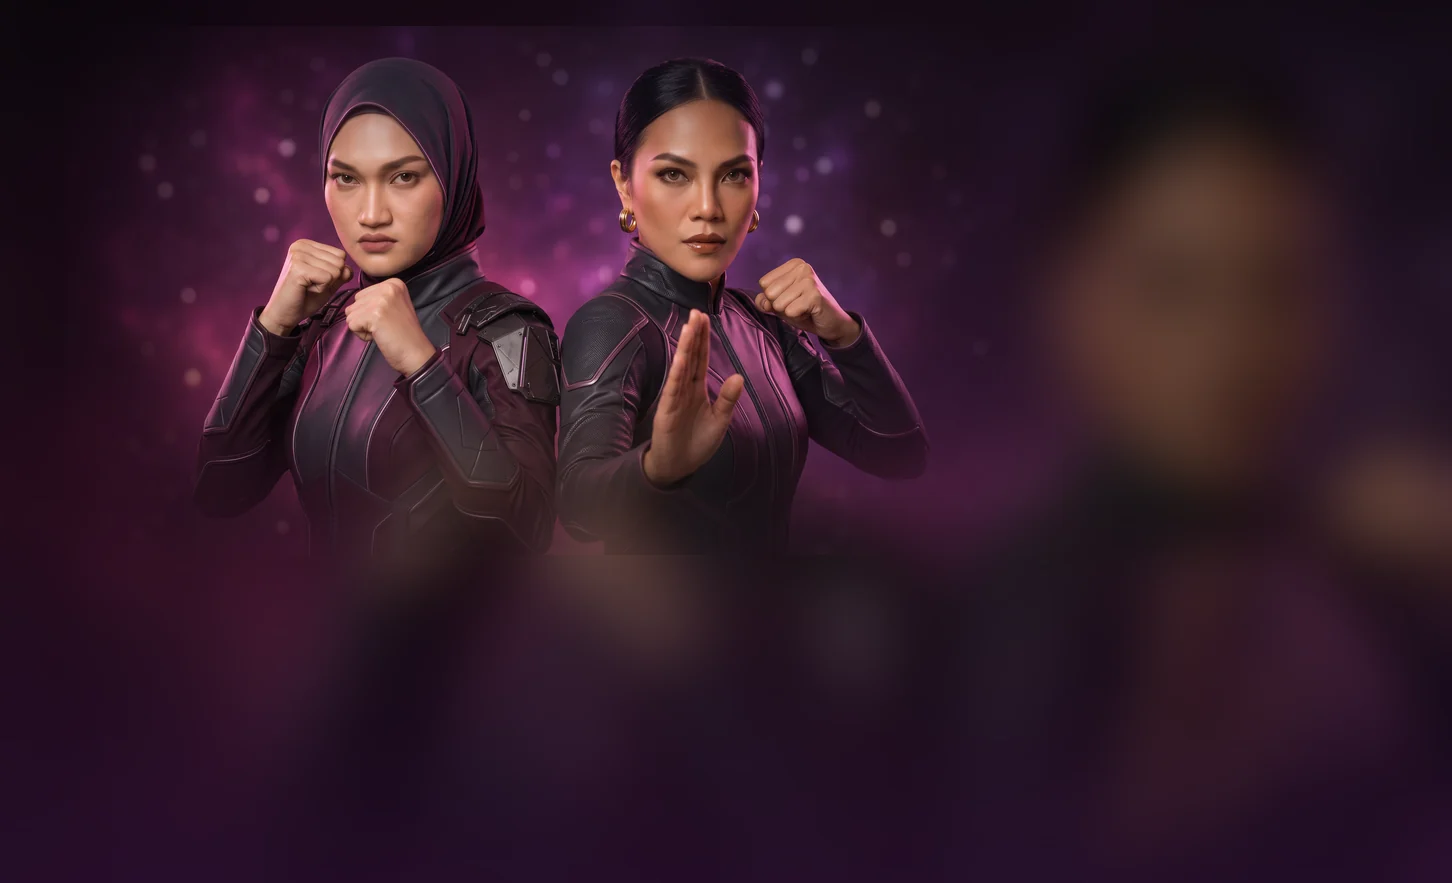
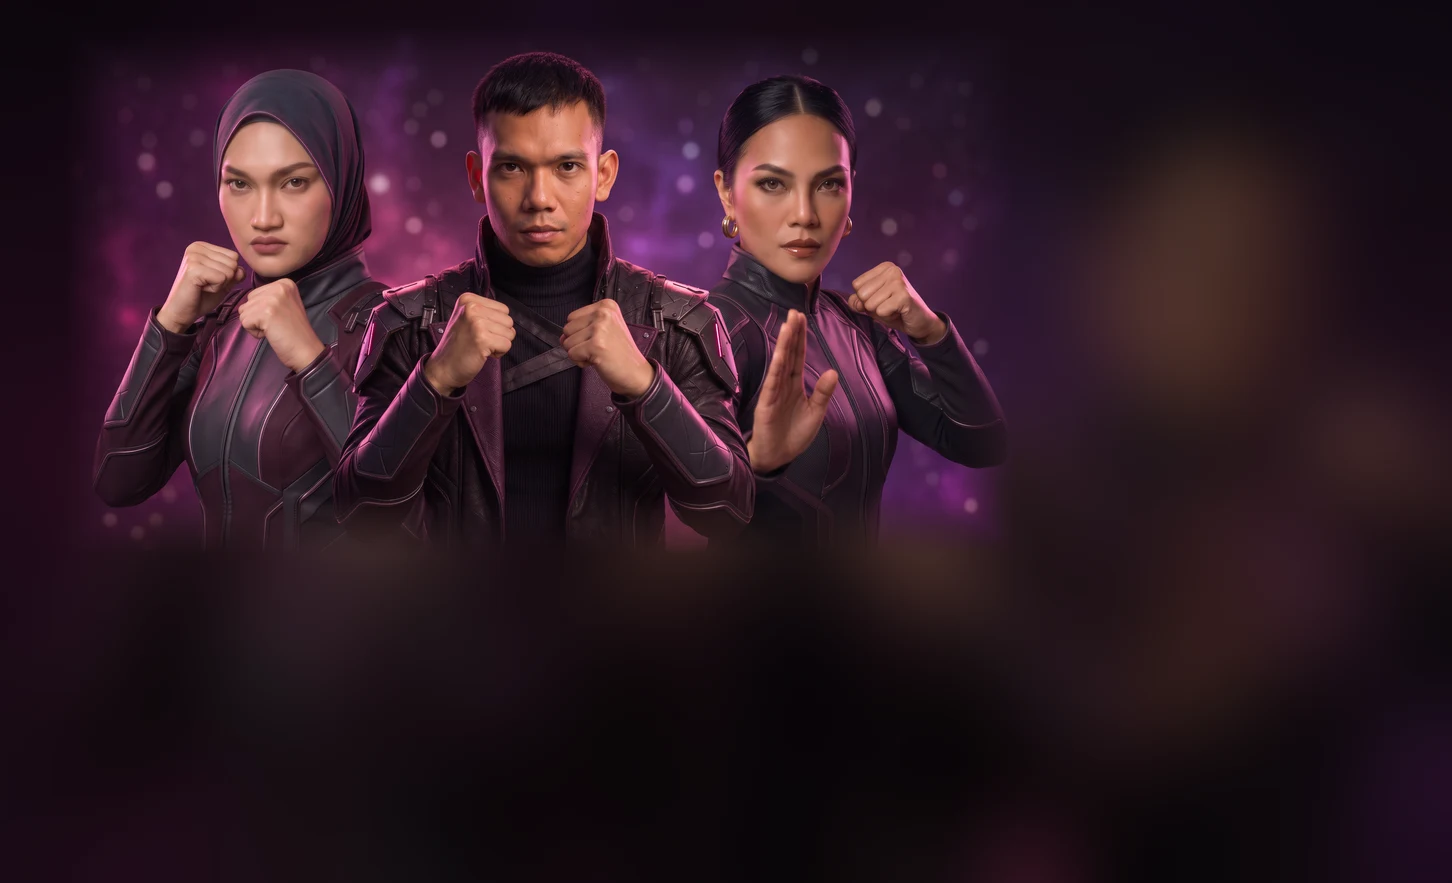
Card 19-20 (Numen): new thumbnail and big art
Claude-Session: https://claude.ai/code/session_01QpfYAiXFaQHcA12hC36bw4

diff --git a/index.html b/index.html
@@ -1417,7 +1417,7 @@
       body:`<section class="backers"><article class="backer"><div class="backer-media"><img class="backer-photo" src="network-sign-1.webp?v=2" alt="Deddy Corbuzier signing with FCU" loading="lazy"><img class="backer-logo" src="investor-logos/fcu.webp" alt="" loading="lazy"></div><div class="backer-info"><h3>DEDDY CORBUZIER</h3><span class="backer-role">Investor &amp; Strategic Partner</span><div class="backer-brand"><b>Flux Creative Universe</b></div><p>Deddy Corbuzier, widely known as the “Father of YouTube Indonesia” and a leading figure in the country’s digital media landscape, joined Flux Creative Universe as an investor and strategic partner on May 9, 2023. His involvement strengthens our vision for Indonesia’s next generation of creative businesses.</p><span class="backer-go" aria-hidden="true">→</span></div></article><article class="backer"><div class="backer-media"><img class="backer-photo" src="network-sign-2.webp?v=2" alt="Andrew Susanto signing with FCU" loading="lazy"><img class="backer-logo" src="investor-logos/bersinema.webp" style="height:3.4rem;max-width:9rem" alt="" loading="lazy"></div><div class="backer-info"><h3>ANDREW SUSANTO</h3><span class="backer-role">Investor</span><div class="backer-brand"><b>Bersinema</b></div><p>Andrew Susanto, an investor and prominent business figure associated with HW Group, invested in Bersinema, Flux Creative Universe’s pioneering TikTok vertical drama production house. Built on the growing potential of short-form entertainment, Bersinema consistently generates over 300 million views per month.</p><span class="backer-go" aria-hidden="true">→</span></div></article><article class="backer"><div class="backer-media"><img class="backer-photo" src="network-sign-3.webp?v=2" alt="Ivan Tanjaya signing with FCU" loading="lazy"><img class="backer-logo" src="investor-logos/holyflux.webp" alt="" loading="lazy"></div><div class="backer-info"><h3>IVAN TANJAYA</h3><span class="backer-role">Investor</span><div class="backer-brand"><b>HolyFlux</b></div><p>Building on Ivan Tanjaya’s experience as co-founder of HW Group, Flux Creative Universe partnered with him to establish HolyFlux Media on November 13, 2024. The venture brings together 7 media brands, collectively generating hundreds of millions of impressions per month.</p><span class="backer-go" aria-hidden="true">→</span></div></article><article class="backer"><div class="backer-media"><img class="backer-photo" src="network-sign-4.webp?v=2" alt="Rudy Salim signing with FCU" loading="lazy"><img class="backer-logo" src="investor-logos/privilege.webp" style="height:1.35rem;max-width:6.5rem" alt="" loading="lazy"></div><div class="backer-info"><h3>RUDY SALIM</h3><span class="backer-role">Investor &amp; Co-Founder</span><div class="backer-brand"><b>Privilege</b></div><p>Known as one of Indonesia’s “Crazy Rich” entrepreneurs, Rudy Salim built his reputation in the luxury automotive industry. He later co-founded Privilege with Flux Creative Universe, driven by the belief that every brand has the privilege to go viral.</p><span class="backer-go" aria-hidden="true">→</span></div></article><article class="backer"><div class="backer-media"><img class="backer-photo" src="network-sign-5.webp?v=2" alt="Grace Tahir signing with FCU" loading="lazy"></div><div class="backer-info"><h3>GRACE TAHIR</h3><span class="backer-role">Investor &amp; Co-Founder</span><div class="backer-brand"><b>Peak Digital Capital</b></div><p>Grace Tahir co-founded Peak Digital Capital with Yohanes Auri on March 2, 2023, as a joint venture between Everest Media and Flux Creative Universe. Through investments in multiple homeless media platforms, Peak is building a digital media network with a combined audience of millions of followers.</p><span class="backer-go" aria-hidden="true">→</span></div></article></section>`
     },
     'PARTNER HEROES':{eye:'04 / Creative Partners',heroes:true,lead:'',body:`<div class="ph-art" role="img" aria-label="Yohanes Auri"></div>
-        <div class="ph-deck"><button class="ph-dnav prev" data-dir="-1" aria-label="Sebelumnya">‹</button><div class="hc-grid"><button class="hc hc-gone" data-hero="0" style="--d:0" hidden><span class="hc-n">01</span><img src="heroes/p01.webp?v=3" alt="" loading="lazy"><span class="hc-name">YOHANES AURI</span><span class="hc-brand">FCU</span></button><button class="hc is-on" data-hero="1" style="--d:1"><span class="hc-n">02</span><img src="heroes/p02.webp?v=2" alt="" loading="lazy"><span class="hc-name">BEN EDGAR</span><span class="hc-brand">Adsventure</span></button><button class="hc" data-hero="2" style="--d:2"><span class="hc-n">03</span><img src="heroes/p03.webp?v=2" alt="" loading="lazy"><span class="hc-name" style="white-space:normal;text-align:center;line-height:1.15">ALDHO MULIA TRIJAYA</span><span class="hc-brand">Bersinema</span></button><button class="hc" data-hero="3" style="--d:3"><span class="hc-n">04</span><img src="heroes/p04.webp?v=2" alt="" loading="lazy"><span class="hc-name">NOBITADIT</span><span class="hc-brand">NEEDED</span></button><button class="hc hc-duo" data-hero="4" style="--d:4"><span class="hc-n">05–06</span><img src="heroes/p05.webp?v=2" alt="" loading="lazy"><span class="hc-name">WILLIAM &amp; NABEEL</span><span class="hc-brand">Ngiklan Creative</span></button><button class="hc hc-gone" data-hero="5" style="--d:5" hidden><span class="hc-n">06</span><img src="heroes/p06.webp" alt="" loading="lazy"><span class="hc-name">RUDY SALIM</span><span class="hc-brand">Privilege</span></button><button class="hc" data-hero="6" style="--d:6"><span class="hc-n">07</span><img src="heroes/p07.webp?v=3" alt="" loading="lazy"><span class="hc-name">MARVELLINO</span><span class="hc-brand">UNEXPLND</span></button><button class="hc" data-hero="7" style="--d:7"><span class="hc-n">08</span><img src="heroes/p08.webp?v=3" alt="" loading="lazy"><span class="hc-name">DANDI WENAS</span><span class="hc-brand">WAH GENZ</span></button><button class="hc hc-duo" data-hero="8" style="--d:8"><span class="hc-n">09–10</span><img src="heroes/p09.webp?v=3" alt="" loading="lazy"><span class="hc-name">CHENDWI &amp; WULAN</span><span class="hc-brand">SS Media</span></button><button class="hc hc-gone" data-hero="9" style="--d:9" hidden><span class="hc-n">10</span><img src="heroes/p10.webp?v=2" alt="" loading="lazy"><span class="hc-name">ALDI</span><span class="hc-brand">KA</span></button><button class="hc hc-duo" data-hero="10" style="--d:0"><span class="hc-n">11–12</span><img src="heroes/p11.webp?v=3" alt="" loading="lazy"><span class="hc-name">KARINA &amp; SYELINDA</span><span class="hc-brand">NÜMEN</span></button><button class="hc hc-gone" data-hero="11" style="--d:1" hidden><span class="hc-n">12</span><img src="heroes/p12.webp?v=2" alt="" loading="lazy"><span class="hc-name">BAYU</span><span class="hc-brand">Studio Lama</span></button><button class="hc" data-hero="12" style="--d:2"><span class="hc-n">13</span><img src="heroes/p13.webp?v=2" alt="" loading="lazy"><span class="hc-name" style="white-space:normal;text-align:center;line-height:1.15">GERY TIMOTHY GUNAWAN</span><span class="hc-brand">Demen Film</span></button><button class="hc" data-hero="13" style="--d:3"><span class="hc-n">14</span><img src="heroes/p14.webp?v=3" alt="" loading="lazy"><span class="hc-name">CARRIN FU</span><span class="hc-brand">Pikology</span></button><button class="hc hc-duo" data-hero="14" style="--d:4"><span class="hc-n">15–16</span><img src="heroes/p15.webp?v=3" alt="" loading="lazy"><span class="hc-name">LOUISE &amp; RARA</span><span class="hc-brand">LR Creative Lab</span></button><button class="hc hc-gone" data-hero="15" style="--d:5" hidden><span class="hc-n">16</span><img src="heroes/p16.webp?v=2" alt="" loading="lazy"><span class="hc-name">TIARA</span><span class="hc-brand">Playverse</span></button><button class="hc" data-hero="16" style="--d:6"><span class="hc-n">17</span><img src="heroes/p17.webp?v=3" alt="" loading="lazy"><span class="hc-name">LUQMAL CHAKIM</span><span class="hc-brand">HolyFlux Media</span></button><button class="hc" data-hero="17" style="--d:7"><span class="hc-n">18</span><img src="heroes/p18.webp?v=3" alt="" loading="lazy"><span class="hc-name">CHIA NURSANTIO</span><span class="hc-brand">PRAVIA</span></button><button class="hc hc-duo" data-hero="18" style="--d:8"><span class="hc-n">19–20</span><img src="heroes/p19.webp?v=3" alt="" loading="lazy"><span class="hc-name">LUCKY &amp; ACUY</span><span class="hc-brand">The Curious</span></button><button class="hc hc-gone" data-hero="19" style="--d:9" hidden><span class="hc-n">20</span><img src="heroes/p20.webp" alt="" loading="lazy"><span class="hc-name">DIMAS</span><span class="hc-brand">Growth Hub</span></button><button class="hc" data-hero="20" style="--d:0"><span class="hc-n">21</span><img src="heroes/p21.webp?v=1" alt="" loading="lazy"><span class="hc-name">PARTNER HERO</span><span class="hc-brand">FCU</span></button><button class="hc" data-hero="21" style="--d:1"><span class="hc-n">22</span><img src="heroes/p22.webp?v=1" alt="" loading="lazy"><span class="hc-name">PARTNER HERO</span><span class="hc-brand">FCU</span></button><button class="hc" data-hero="22" style="--d:2"><span class="hc-n">23</span><img src="heroes/p23.webp?v=1" alt="" loading="lazy"><span class="hc-name">RILLY YUNIARDA</span><span class="hc-brand">Impressive</span></button><button class="hc" data-hero="23" style="--d:3"><span class="hc-n">24</span><img src="heroes/p24.webp?v=1" alt="" loading="lazy"><span class="hc-name">KIKI TOBING</span><span class="hc-brand">Oxygen</span></button><button class="hc" data-hero="24" style="--d:4"><span class="hc-n">25</span><img src="heroes/p25.webp?v=1" alt="" loading="lazy"><span class="hc-name">JAILANI</span><span class="hc-brand">Flux Design</span></button><button class="hc hc-duo" data-hero="25" style="--d:5"><span class="hc-n">25–26</span><img src="heroes/p26.webp?v=1" alt="" loading="lazy"><span class="hc-name">ZUFAR ASYRAF</span><span class="hc-brand">GetCore</span></button><button class="hc hc-soon hc-gone" data-hero="26" style="--d:6" tabindex="-1" aria-label="Coming soon" hidden><span class="hc-n">27</span><span class="hc-name">COMING SOON</span><span class="hc-brand">Partner Hero</span></button><button class="hc hc-bot" data-hero="27" style="--d:7"><span class="hc-n">27</span><img src="heroes/p28.webp?v=3" alt="" loading="lazy"><span class="hc-name">PARTNER HERO</span><span class="hc-brand">FCU</span></button><button class="hc hc-bot" data-hero="28" style="--d:8"><span class="hc-n">28</span><img src="heroes/p29.webp?v=1" alt="" loading="lazy"><span class="hc-name">PARTNER HERO</span><span class="hc-brand">FCU</span></button></div><button class="ph-dnav next" data-dir="1" aria-label="Berikutnya">›</button></div>
+        <div class="ph-deck"><button class="ph-dnav prev" data-dir="-1" aria-label="Sebelumnya">‹</button><div class="hc-grid"><button class="hc hc-gone" data-hero="0" style="--d:0" hidden><span class="hc-n">01</span><img src="heroes/p01.webp?v=3" alt="" loading="lazy"><span class="hc-name">YOHANES AURI</span><span class="hc-brand">FCU</span></button><button class="hc is-on" data-hero="1" style="--d:1"><span class="hc-n">02</span><img src="heroes/p02.webp?v=2" alt="" loading="lazy"><span class="hc-name">BEN EDGAR</span><span class="hc-brand">Adsventure</span></button><button class="hc" data-hero="2" style="--d:2"><span class="hc-n">03</span><img src="heroes/p03.webp?v=2" alt="" loading="lazy"><span class="hc-name" style="white-space:normal;text-align:center;line-height:1.15">ALDHO MULIA TRIJAYA</span><span class="hc-brand">Bersinema</span></button><button class="hc" data-hero="3" style="--d:3"><span class="hc-n">04</span><img src="heroes/p04.webp?v=2" alt="" loading="lazy"><span class="hc-name">NOBITADIT</span><span class="hc-brand">NEEDED</span></button><button class="hc hc-duo" data-hero="4" style="--d:4"><span class="hc-n">05–06</span><img src="heroes/p05.webp?v=2" alt="" loading="lazy"><span class="hc-name">WILLIAM &amp; NABEEL</span><span class="hc-brand">Ngiklan Creative</span></button><button class="hc hc-gone" data-hero="5" style="--d:5" hidden><span class="hc-n">06</span><img src="heroes/p06.webp" alt="" loading="lazy"><span class="hc-name">RUDY SALIM</span><span class="hc-brand">Privilege</span></button><button class="hc" data-hero="6" style="--d:6"><span class="hc-n">07</span><img src="heroes/p07.webp?v=3" alt="" loading="lazy"><span class="hc-name">MARVELLINO</span><span class="hc-brand">UNEXPLND</span></button><button class="hc" data-hero="7" style="--d:7"><span class="hc-n">08</span><img src="heroes/p08.webp?v=3" alt="" loading="lazy"><span class="hc-name">DANDI WENAS</span><span class="hc-brand">WAH GENZ</span></button><button class="hc hc-duo" data-hero="8" style="--d:8"><span class="hc-n">09–10</span><img src="heroes/p09.webp?v=3" alt="" loading="lazy"><span class="hc-name">CHENDWI &amp; WULAN</span><span class="hc-brand">SS Media</span></button><button class="hc hc-gone" data-hero="9" style="--d:9" hidden><span class="hc-n">10</span><img src="heroes/p10.webp?v=2" alt="" loading="lazy"><span class="hc-name">ALDI</span><span class="hc-brand">KA</span></button><button class="hc hc-duo" data-hero="10" style="--d:0"><span class="hc-n">11–12</span><img src="heroes/p11.webp?v=4" alt="" loading="lazy"><span class="hc-name">KARINA &amp; SYELINDA</span><span class="hc-brand">NÜMEN</span></button><button class="hc hc-gone" data-hero="11" style="--d:1" hidden><span class="hc-n">12</span><img src="heroes/p12.webp?v=2" alt="" loading="lazy"><span class="hc-name">BAYU</span><span class="hc-brand">Studio Lama</span></button><button class="hc" data-hero="12" style="--d:2"><span class="hc-n">13</span><img src="heroes/p13.webp?v=2" alt="" loading="lazy"><span class="hc-name" style="white-space:normal;text-align:center;line-height:1.15">GERY TIMOTHY GUNAWAN</span><span class="hc-brand">Demen Film</span></button><button class="hc" data-hero="13" style="--d:3"><span class="hc-n">14</span><img src="heroes/p14.webp?v=3" alt="" loading="lazy"><span class="hc-name">CARRIN FU</span><span class="hc-brand">Pikology</span></button><button class="hc hc-duo" data-hero="14" style="--d:4"><span class="hc-n">15–16</span><img src="heroes/p15.webp?v=3" alt="" loading="lazy"><span class="hc-name">LOUISE &amp; RARA</span><span class="hc-brand">LR Creative Lab</span></button><button class="hc hc-gone" data-hero="15" style="--d:5" hidden><span class="hc-n">16</span><img src="heroes/p16.webp?v=2" alt="" loading="lazy"><span class="hc-name">TIARA</span><span class="hc-brand">Playverse</span></button><button class="hc" data-hero="16" style="--d:6"><span class="hc-n">17</span><img src="heroes/p17.webp?v=3" alt="" loading="lazy"><span class="hc-name">LUQMAL CHAKIM</span><span class="hc-brand">HolyFlux Media</span></button><button class="hc" data-hero="17" style="--d:7"><span class="hc-n">18</span><img src="heroes/p18.webp?v=3" alt="" loading="lazy"><span class="hc-name">CHIA NURSANTIO</span><span class="hc-brand">PRAVIA</span></button><button class="hc hc-duo" data-hero="18" style="--d:8"><span class="hc-n">19–20</span><img src="heroes/p19.webp?v=3" alt="" loading="lazy"><span class="hc-name">LUCKY &amp; ACUY</span><span class="hc-brand">The Curious</span></button><button class="hc hc-gone" data-hero="19" style="--d:9" hidden><span class="hc-n">20</span><img src="heroes/p20.webp" alt="" loading="lazy"><span class="hc-name">DIMAS</span><span class="hc-brand">Growth Hub</span></button><button class="hc" data-hero="20" style="--d:0"><span class="hc-n">21</span><img src="heroes/p21.webp?v=1" alt="" loading="lazy"><span class="hc-name">PARTNER HERO</span><span class="hc-brand">FCU</span></button><button class="hc" data-hero="21" style="--d:1"><span class="hc-n">22</span><img src="heroes/p22.webp?v=1" alt="" loading="lazy"><span class="hc-name">PARTNER HERO</span><span class="hc-brand">FCU</span></button><button class="hc" data-hero="22" style="--d:2"><span class="hc-n">23</span><img src="heroes/p23.webp?v=1" alt="" loading="lazy"><span class="hc-name">RILLY YUNIARDA</span><span class="hc-brand">Impressive</span></button><button class="hc" data-hero="23" style="--d:3"><span class="hc-n">24</span><img src="heroes/p24.webp?v=1" alt="" loading="lazy"><span class="hc-name">KIKI TOBING</span><span class="hc-brand">Oxygen</span></button><button class="hc" data-hero="24" style="--d:4"><span class="hc-n">25</span><img src="heroes/p25.webp?v=1" alt="" loading="lazy"><span class="hc-name">JAILANI</span><span class="hc-brand">Flux Design</span></button><button class="hc hc-duo" data-hero="25" style="--d:5"><span class="hc-n">25–26</span><img src="heroes/p26.webp?v=1" alt="" loading="lazy"><span class="hc-name">ZUFAR ASYRAF</span><span class="hc-brand">GetCore</span></button><button class="hc hc-soon hc-gone" data-hero="26" style="--d:6" tabindex="-1" aria-label="Coming soon" hidden><span class="hc-n">27</span><span class="hc-name">COMING SOON</span><span class="hc-brand">Partner Hero</span></button><button class="hc hc-bot" data-hero="27" style="--d:7"><span class="hc-n">27</span><img src="heroes/p28.webp?v=3" alt="" loading="lazy"><span class="hc-name">PARTNER HERO</span><span class="hc-brand">FCU</span></button><button class="hc hc-bot" data-hero="28" style="--d:8"><span class="hc-n">28</span><img src="heroes/p29.webp?v=1" alt="" loading="lazy"><span class="hc-name">PARTNER HERO</span><span class="hc-brand">FCU</span></button></div><button class="ph-dnav next" data-dir="1" aria-label="Berikutnya">›</button></div>
         <div class="ph-quote">
           <div class="ph-tag">DIFFERENT<br>EXPERTISES<br>ONE ECOSYSTEM<br>BIGGER<br>OPPORTUNITIES</div>
           <blockquote id="phQuote">Building next-generation creative businesses for Indonesia and beyond.</blockquote>
@@ -1765,7 +1765,7 @@
     $('phQuote').textContent=main?first.quote:'Different expertises, one ecosystem.';
     document.querySelectorAll('.hc').forEach(function(x){x.classList.toggle('is-on',Number(x.dataset.hero)===slot)});
     if(window.fcuHeroPage){var hc=document.querySelector('.hc[data-hero="'+slot+'"]');window.fcuHeroPage(Number(hc&&hc.dataset.pg||0));}
-    var art=document.querySelector('.ph-art'); if(art){art.style.backgroundImage="linear-gradient(90deg,rgba(8,4,18,.6) 0,rgba(8,4,18,0) 32%,rgba(8,4,18,0) 58%,rgba(8,4,18,.55) 100%),linear-gradient(180deg,rgba(8,4,18,0) 55%,rgba(8,4,18,.7) 100%),url('heroes/big/p"+String(slot+1).padStart(2,'0')+".webp?v=9')";art.setAttribute('aria-label',name);}
+    var art=document.querySelector('.ph-art'); if(art){art.style.backgroundImage="linear-gradient(90deg,rgba(8,4,18,.6) 0,rgba(8,4,18,0) 32%,rgba(8,4,18,0) 58%,rgba(8,4,18,.55) 100%),linear-gradient(180deg,rgba(8,4,18,0) 55%,rgba(8,4,18,.7) 100%),url('heroes/big/p"+String(slot+1).padStart(2,'0')+".webp?v=10')";art.setAttribute('aria-label',name);}
     $('phSignName').textContent=name; $('phSignRole').textContent=role; var LG={1:'adsventure',2:'bersinema',6:'unexplnd',14:'lrcreative',23:'oxygen',16:'holyflux',17:'pravia',8:'ssmedia',25:'getcore',22:'impressive',20:'jonbray',21:'activead',27:'sparktank',24:'fluxdesign',28:'folkshitkuy',4:'ngiklan',5:'ngiklan',10:'numen',11:'numen',18:'thecurious',19:'thecurious',3:'needed',13:'pikology',7:'wahgenz',12:'demenfilm'}, lg=$('phSignLogo'); if(lg){ if(LG[slot]){lg.src='hero-logos/'+LG[slot]+'.webp?v=6';lg.alt=role;lg.style.display='block';} else {lg.removeAttribute('src');lg.style.display='none';} }
   };
   document.addEventListener('click',function(e){
